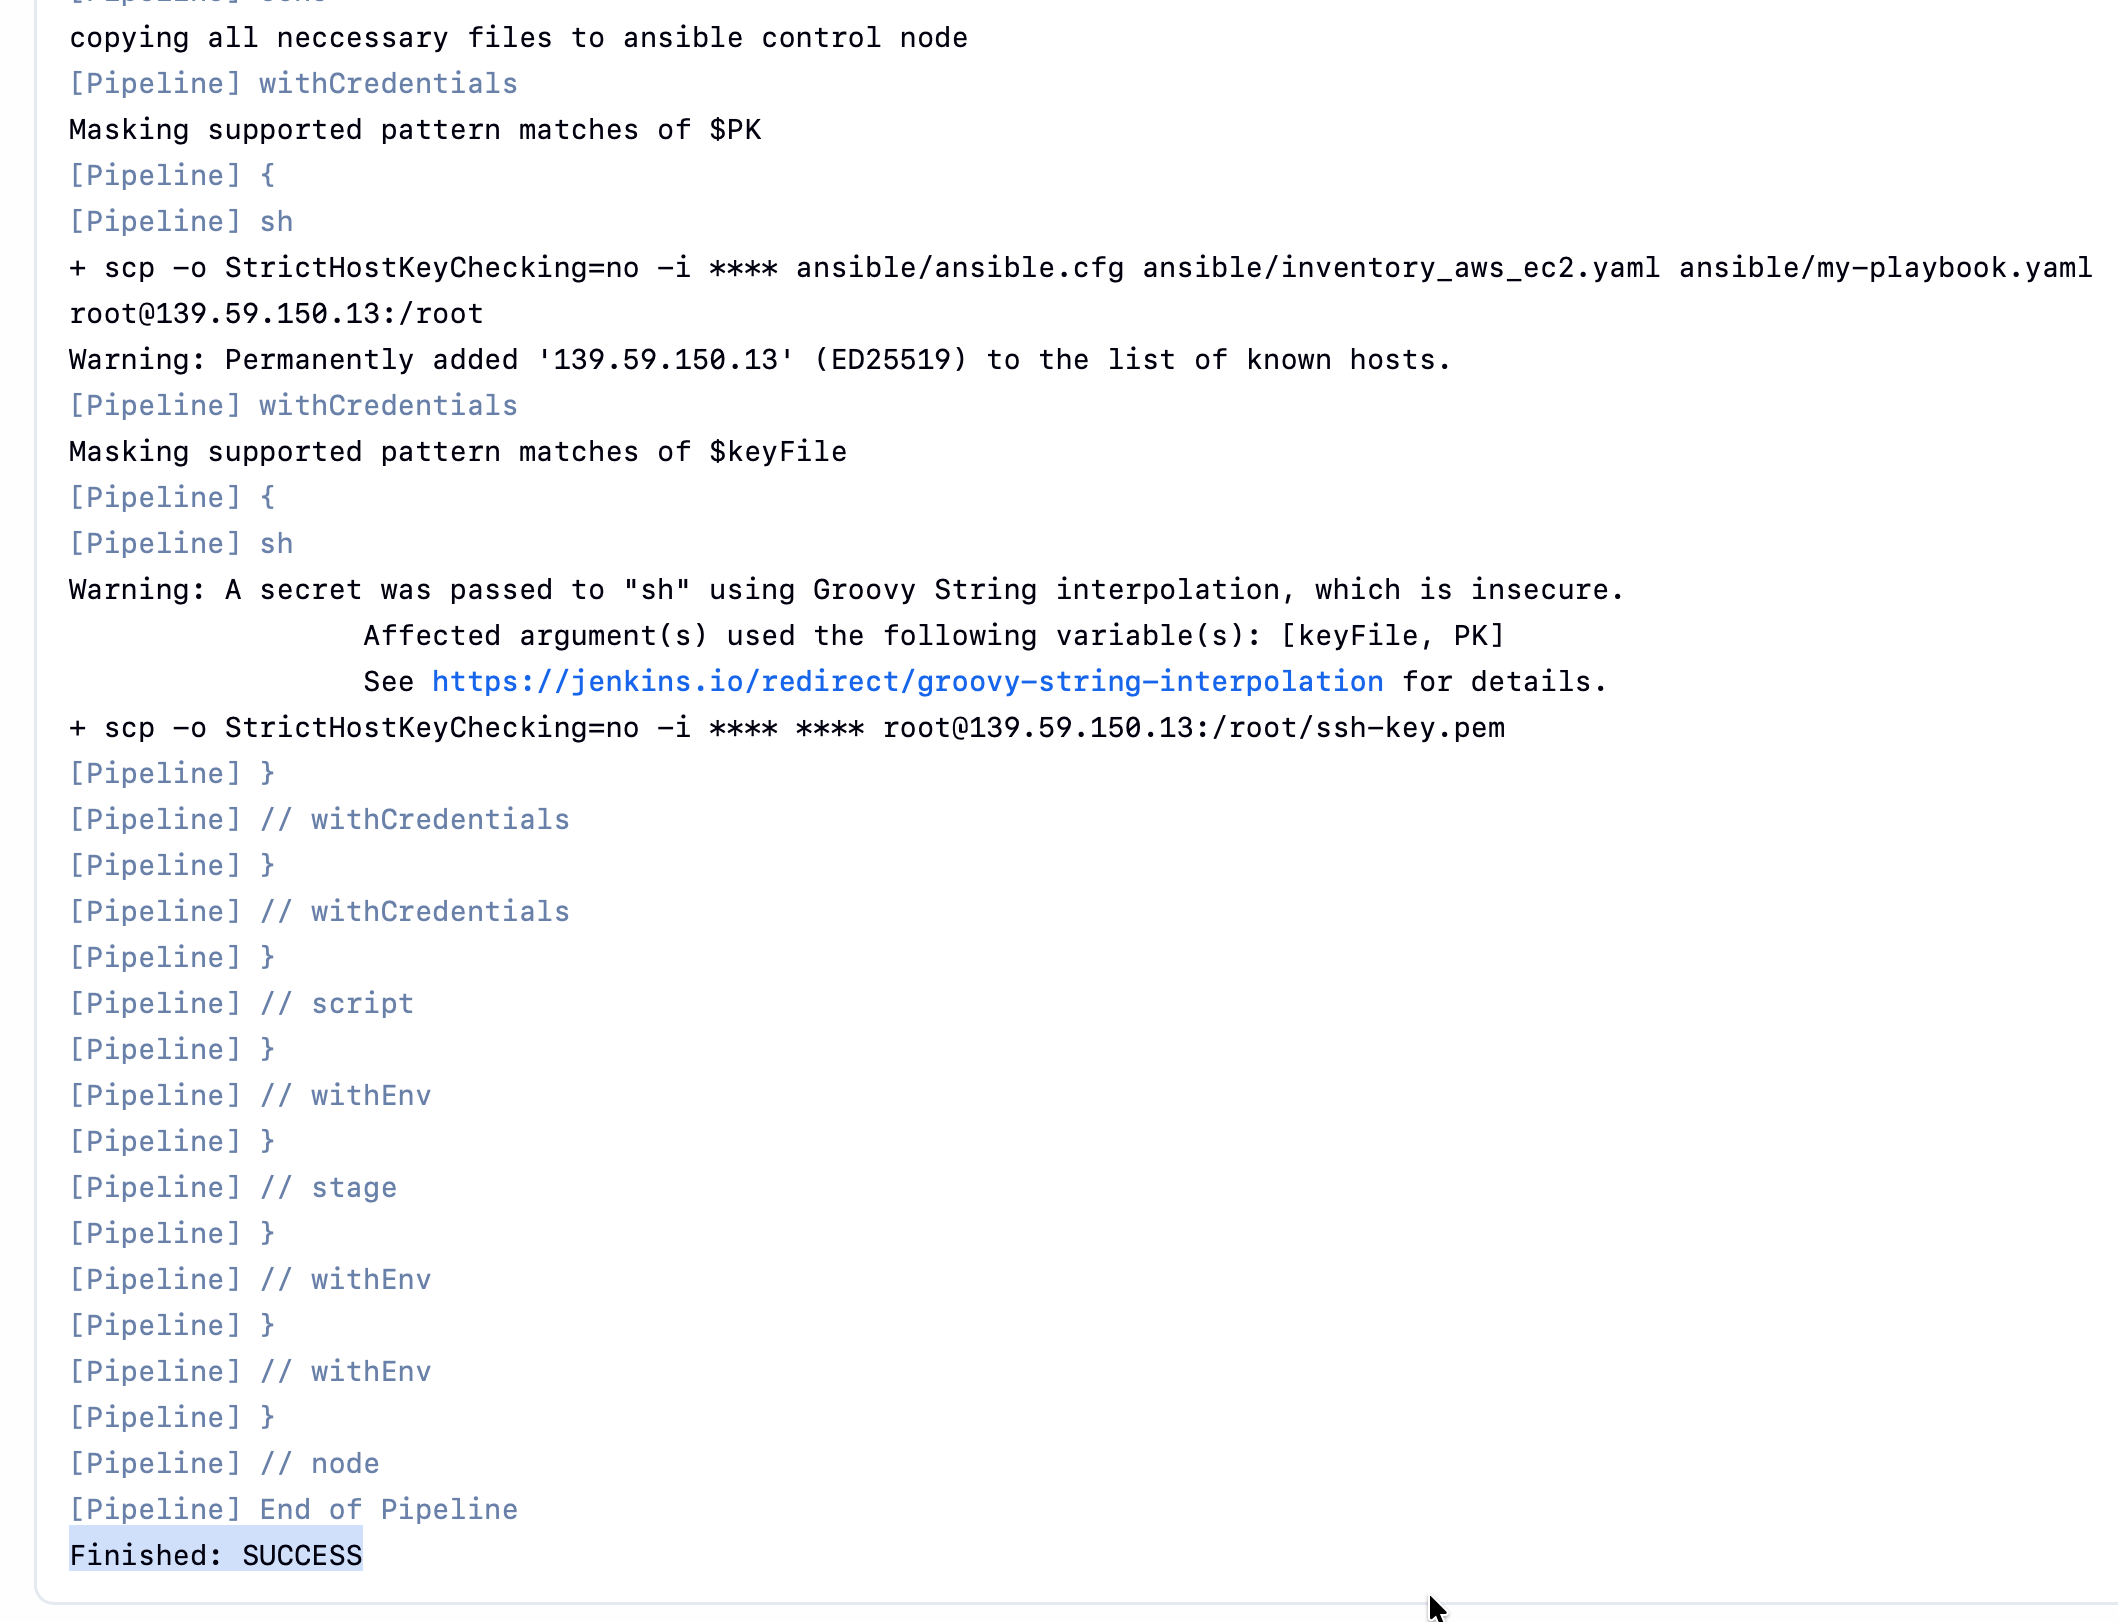
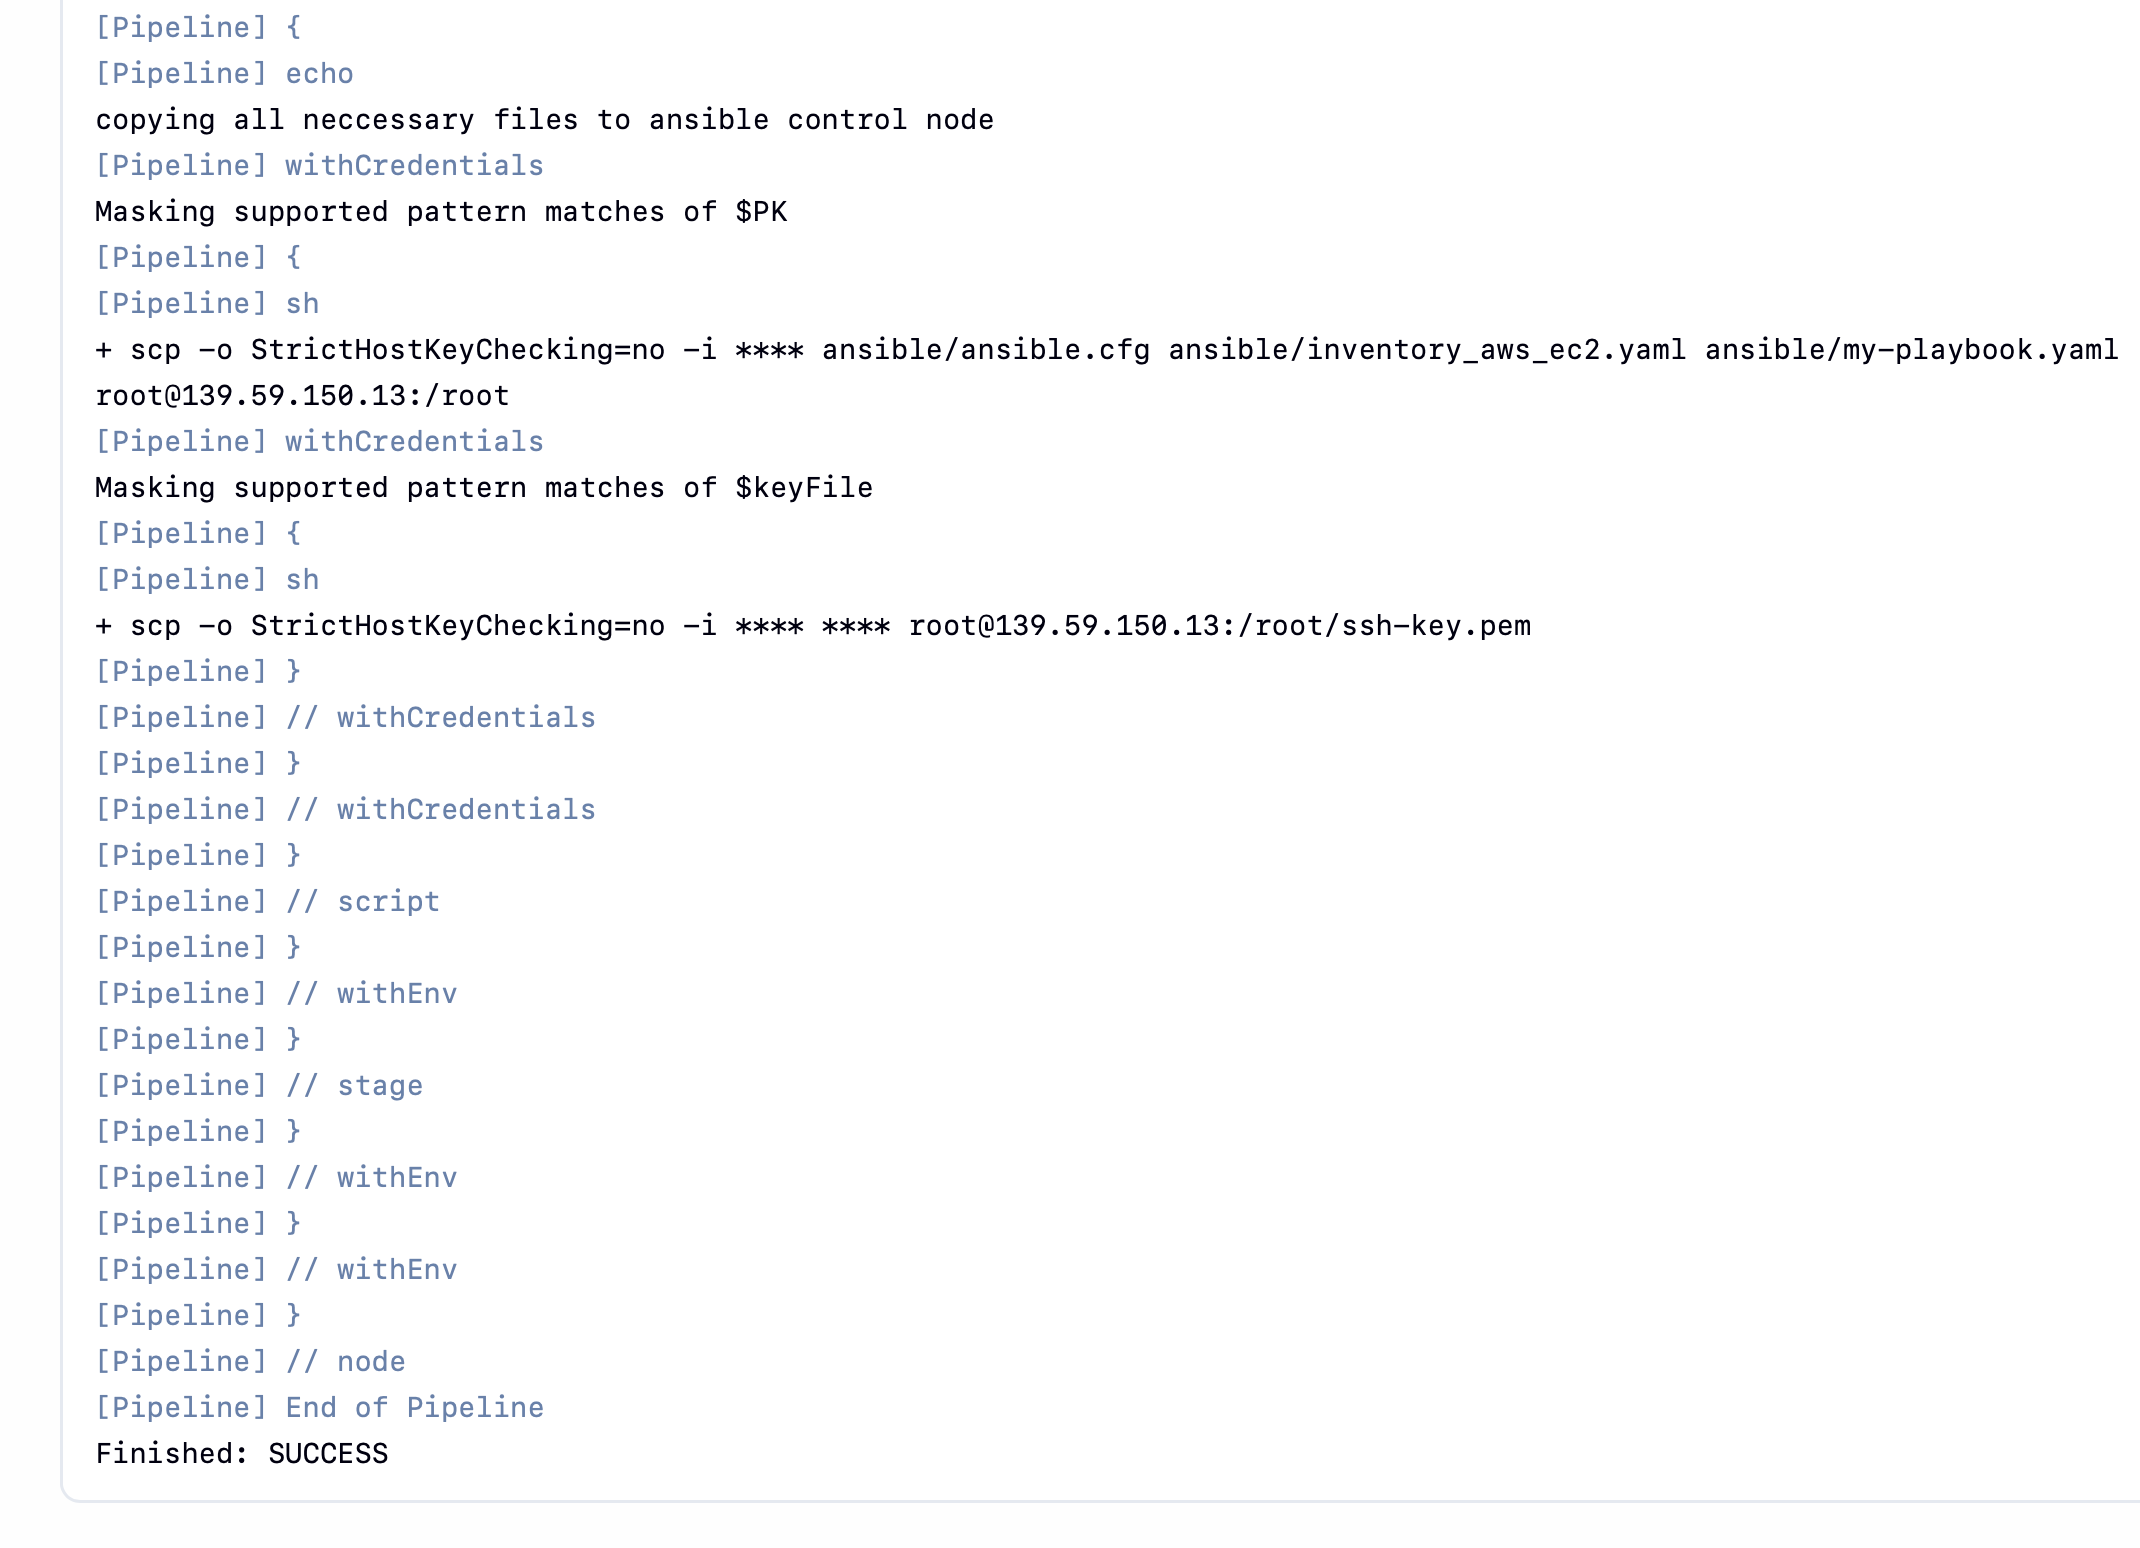
Add remote execution

Changed region(s): [[0.0312, 0.0, 1.0, 1.0], [0.3428, 0.124, 0.9972, 0.186]]

diff --git a/README.md b/README.md
@@ -184,3 +184,39 @@ ls
 ```
 
 ![](./images/ansible-server-transfered-configs.png)
+
+### Jenkinsfile: Execute Ansible Playbook from Jenkins
+
+Install Jenkins plugin: `SSH Pipeline Steps`
+
+Add the following stage to Jenkinsfile:
+
+```groovy
+      stage("execute ansible playbook") {
+        steps {
+          script {
+            echo "calling ansible playbook to configure ec2 instances"
+
+            def remote = [:]
+            remote.name = "ansible-server"
+            remote.host = "$ANSIBLE_SERVER"
+            remote.allowAnyHosts = true
+            withCredentials([sshUserPrivateKey(credentialsId: 'ansible-server-key', keyFileVariable: 'keyFile', usernameVariable: 'user')]) {
+              remote.user = user
+              remote.identityFile = keyFile
+              sshCommand remote: remote, command: "ls -l"
+            }
+          }
+        }
+      }
+```
+
+Execute pipeline again
+
+![](./images/exec-on-ansible-server.png)
+
+Finally, replace `ls` with playbook run command:
+
+```groovy
+sshCommand remote: remote, command: "ansible-playbook my-playbook.yaml"
+```